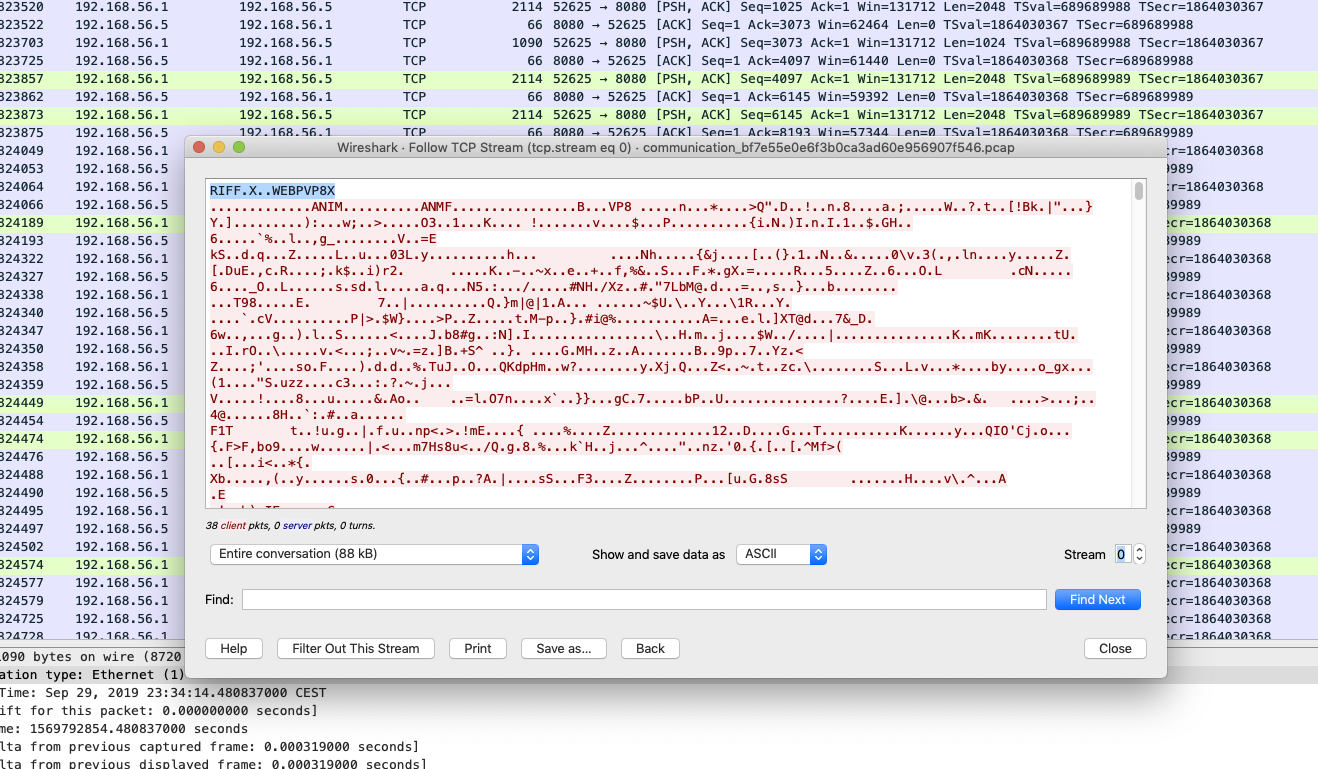
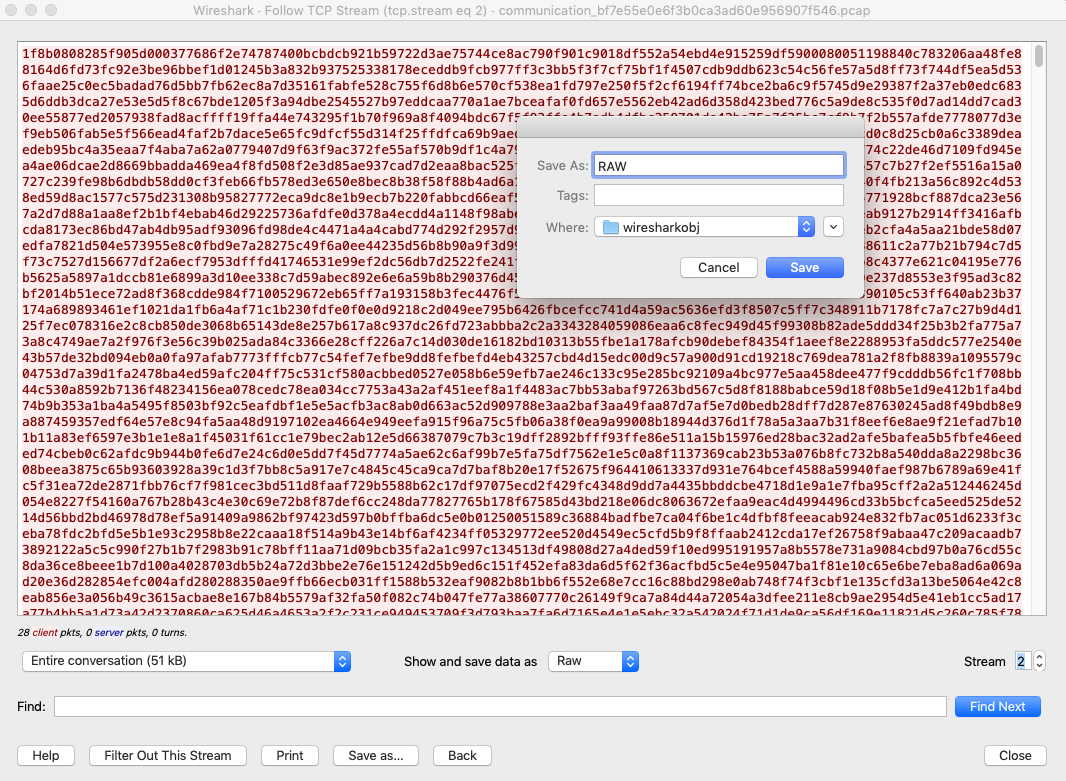
fixed writeup

diff --git a/Writeup.md b/Writeup.md
@@ -1,4 +1,4 @@
-#### Writeup Communication
+# Writeup Communication
 
 In this task we are given a pcap file, which can be opened with wireshark. 
 
@@ -13,17 +13,39 @@ To get information about these objects filetype, file can be run on them:
 $ file * 
 </pre>
 
-We see that all the objects contain data, and recognize several filetypes: RIFF (little-endian) data, Web/P image, PDP-11 pure executable etc. However, object475 is a x.out archive which looks interesting. It does not work to use 7z or unzip to extract the data, but we have all the data in Wireshark. In Wireshark, we can copy all the raw data from the stream belonging to the archive into a new file. As the file signature is the same, it is recognized:
+We see that all the objects contain data, and recognize several filetypes: RIFF (little-endian) data, Web/P image, PDP-11 pure executable etc. However, object475 is a x.out archive which looks interesting. It does not work to use 7z or unzip to extract the data, but we have all the data in Wireshark. In Wireshark, we can copy all the raw data from the stream belonging to the archive into a new file named "RAW". As the file signature is the same, it is recognized:
 
-![Alt text](/figures/comm1.png?raw=true )
+![Alt text](/figures/comm2.png?raw=true )
 <pre>
 [:wiresharkobj0]$ file RAW
 RAW: gzip compressed data, was "who.txt", last modified: Sun Sep 29 07:37:12 2019, from Unix, original size 153525
 </pre>
 
-Running 7z x RAW extracts a text file, who.txt.
+We then extract the content of RAW:
+<pre>
+[wiresharkobj0]$ 7z x RAW
 
-We run cat who.txt and find our flag in the end of the text file:
+7-Zip [64] 16.02 : Copyright (c) 1999-2016 Igor Pavlov : 2016-05-21
+p7zip Version 16.02 (locale=utf8,Utf16=on,HugeFiles=on,64 bits,4 CPUs x64)
+
+Scanning the drive for archives:
+1 file, 51945 bytes (51 KiB)
+
+Extracting archive: RAW
+--
+Path = RAW
+Type = gzip
+Headers Size = 18
+
+Everything is Ok
+
+Size:       153525
+Compressed: 51945
+</pre>
+
+<pre>
+$ cat who.txt
+</pre>
 ![Alt text](/figures/comm3.png?raw=true )
 
 ttm4536{Banana-limk-shake2019}
